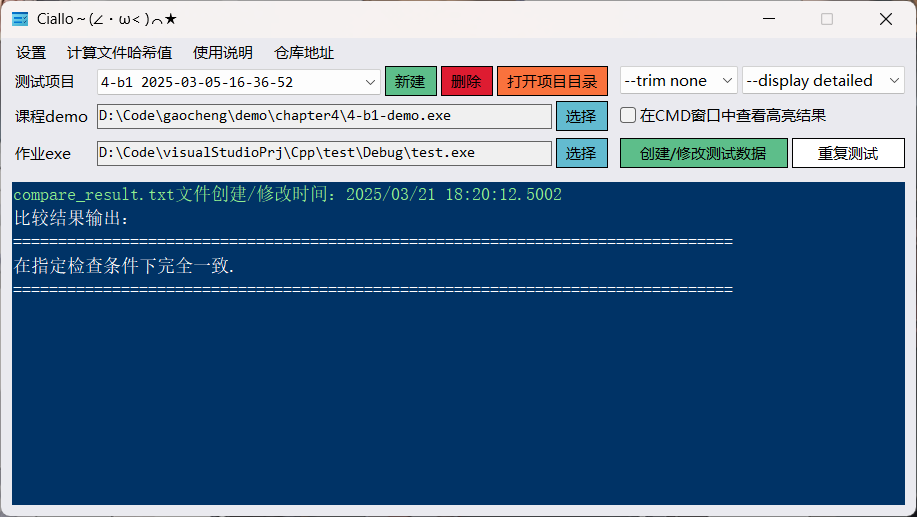
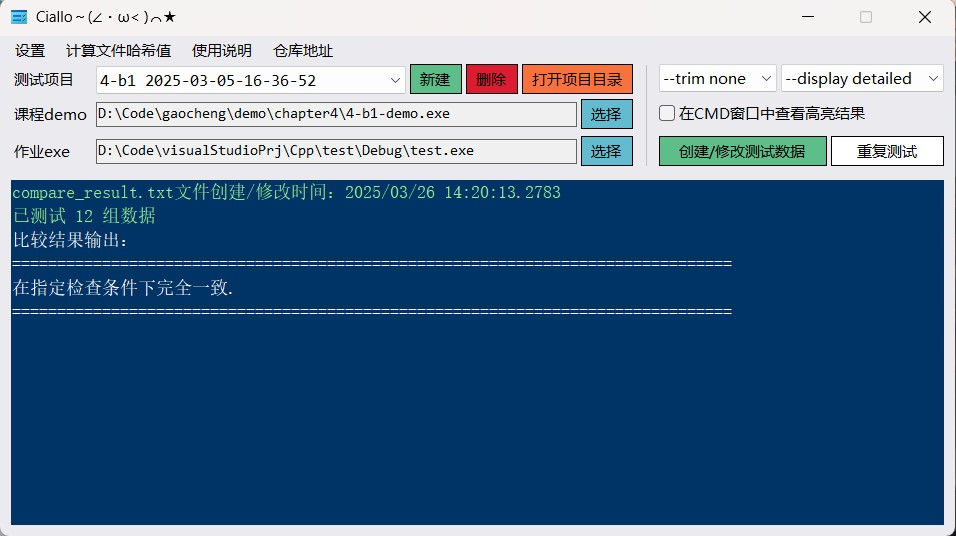
结果显示测试数据组数，新增一键复制键

Changed region(s): [[0.0, 0.0, 1.0, 1.0], [0.9466, 0.0, 1.0, 0.0619], [0.8855, 0.0, 0.916, 0.0619]]

diff --git a/gaocheng_debug/gaocheng_debug/MainForm.Designer.cs b/gaocheng_debug/gaocheng_debug/MainForm.Designer.cs
@@ -54,6 +54,7 @@
             this.btnOpenProjectDirectory = new System.Windows.Forms.Button();
             this.btnDeleteProject = new System.Windows.Forms.Button();
             this.chkIsInterfaceProgramPause = new System.Windows.Forms.CheckBox();
+            this.lblSeperator = new System.Windows.Forms.Label();
             this.mnsAdditionalFunctions.SuspendLayout();
             this.SuspendLayout();
             // 
@@ -62,14 +63,14 @@
             this.cboProjectSelector.BackColor = System.Drawing.SystemColors.Window;
             this.cboProjectSelector.DropDownStyle = System.Windows.Forms.ComboBoxStyle.DropDownList;
             this.cboProjectSelector.FlatStyle = System.Windows.Forms.FlatStyle.System;
-            this.cboProjectSelector.Font = new System.Drawing.Font("Consolas", 9F, System.Drawing.FontStyle.Regular, System.Drawing.GraphicsUnit.Point, ((byte)(0)));
+            this.cboProjectSelector.Font = new System.Drawing.Font("Consolas", 10.2F, System.Drawing.FontStyle.Regular, System.Drawing.GraphicsUnit.Point, ((byte)(0)));
             this.cboProjectSelector.FormattingEnabled = true;
             this.cboProjectSelector.Items.AddRange(new object[] {
             "blank"});
-            this.cboProjectSelector.Location = new System.Drawing.Point(96, 31);
+            this.cboProjectSelector.Location = new System.Drawing.Point(96, 30);
             this.cboProjectSelector.Margin = new System.Windows.Forms.Padding(2);
             this.cboProjectSelector.Name = "cboProjectSelector";
-            this.cboProjectSelector.Size = new System.Drawing.Size(284, 26);
+            this.cboProjectSelector.Size = new System.Drawing.Size(310, 28);
             this.cboProjectSelector.TabIndex = 0;
             this.cboProjectSelector.TabStop = false;
             this.cboProjectSelector.SelectedIndexChanged += new System.EventHandler(this.CboProjectSelectorSelectedIndexChanged);
@@ -97,35 +98,35 @@
             this.mnsAdditionalFunctions.Location = new System.Drawing.Point(0, 0);
             this.mnsAdditionalFunctions.Name = "mnsAdditionalFunctions";
             this.mnsAdditionalFunctions.Padding = new System.Windows.Forms.Padding(5, 2, 0, 2);
-            this.mnsAdditionalFunctions.Size = new System.Drawing.Size(915, 28);
+            this.mnsAdditionalFunctions.Size = new System.Drawing.Size(955, 30);
             this.mnsAdditionalFunctions.TabIndex = 2;
             this.mnsAdditionalFunctions.Text = "menuStrip1";
             // 
             // tsmiSettings
             // 
             this.tsmiSettings.Name = "tsmiSettings";
-            this.tsmiSettings.Size = new System.Drawing.Size(53, 24);
+            this.tsmiSettings.Size = new System.Drawing.Size(53, 26);
             this.tsmiSettings.Text = "设置";
             this.tsmiSettings.Click += new System.EventHandler(this.TsmiSettingsClick);
             // 
             // tsmiHashCalculator
             // 
             this.tsmiHashCalculator.Name = "tsmiHashCalculator";
-            this.tsmiHashCalculator.Size = new System.Drawing.Size(128, 24);
+            this.tsmiHashCalculator.Size = new System.Drawing.Size(128, 26);
             this.tsmiHashCalculator.Text = "计算文件哈希值";
             this.tsmiHashCalculator.Click += new System.EventHandler(this.TsmiHashCalculatorClick);
             // 
             // tsmiHelp
             // 
             this.tsmiHelp.Name = "tsmiHelp";
-            this.tsmiHelp.Size = new System.Drawing.Size(83, 24);
+            this.tsmiHelp.Size = new System.Drawing.Size(83, 26);
             this.tsmiHelp.Text = "使用说明";
             this.tsmiHelp.Click += new System.EventHandler(this.TsmiHelpClick);
             // 
             // tsmiRepositoryAddress
             // 
             this.tsmiRepositoryAddress.Name = "tsmiRepositoryAddress";
-            this.tsmiRepositoryAddress.Size = new System.Drawing.Size(83, 24);
+            this.tsmiRepositoryAddress.Size = new System.Drawing.Size(83, 26);
             this.tsmiRepositoryAddress.Text = "仓库地址";
             this.tsmiRepositoryAddress.Click += new System.EventHandler(this.TsmiRepositoryAddressClick);
             // 
@@ -133,7 +134,7 @@
             // 
             this.btnNewProject.BackColor = System.Drawing.Color.FromArgb(((int)(((byte)(93)))), ((int)(((byte)(190)))), ((int)(((byte)(138)))));
             this.btnNewProject.FlatStyle = System.Windows.Forms.FlatStyle.Flat;
-            this.btnNewProject.Location = new System.Drawing.Point(384, 28);
+            this.btnNewProject.Location = new System.Drawing.Point(410, 28);
             this.btnNewProject.Margin = new System.Windows.Forms.Padding(2);
             this.btnNewProject.Name = "btnNewProject";
             this.btnNewProject.Size = new System.Drawing.Size(52, 30);
@@ -151,7 +152,7 @@
             this.txtDemoExePath.Margin = new System.Windows.Forms.Padding(2);
             this.txtDemoExePath.Name = "txtDemoExePath";
             this.txtDemoExePath.ReadOnly = true;
-            this.txtDemoExePath.Size = new System.Drawing.Size(455, 25);
+            this.txtDemoExePath.Size = new System.Drawing.Size(481, 25);
             this.txtDemoExePath.TabIndex = 4;
             this.txtDemoExePath.TabStop = false;
             this.txtDemoExePath.TextChanged += new System.EventHandler(this.TxtDemoExePathOrTxtYourExePathTextChanged);
@@ -171,7 +172,7 @@
             this.btnBrowseDemoExe.BackColor = System.Drawing.Color.FromArgb(((int)(((byte)(99)))), ((int)(((byte)(187)))), ((int)(((byte)(208)))));
             this.btnBrowseDemoExe.Enabled = false;
             this.btnBrowseDemoExe.FlatStyle = System.Windows.Forms.FlatStyle.Flat;
-            this.btnBrowseDemoExe.Location = new System.Drawing.Point(555, 63);
+            this.btnBrowseDemoExe.Location = new System.Drawing.Point(581, 63);
             this.btnBrowseDemoExe.Margin = new System.Windows.Forms.Padding(2);
             this.btnBrowseDemoExe.Name = "btnBrowseDemoExe";
             this.btnBrowseDemoExe.Size = new System.Drawing.Size(52, 30);
@@ -186,7 +187,7 @@
             this.btnBrowseYourExe.BackColor = System.Drawing.Color.FromArgb(((int)(((byte)(99)))), ((int)(((byte)(187)))), ((int)(((byte)(208)))));
             this.btnBrowseYourExe.Enabled = false;
             this.btnBrowseYourExe.FlatStyle = System.Windows.Forms.FlatStyle.Flat;
-            this.btnBrowseYourExe.Location = new System.Drawing.Point(555, 100);
+            this.btnBrowseYourExe.Location = new System.Drawing.Point(581, 100);
             this.btnBrowseYourExe.Margin = new System.Windows.Forms.Padding(2);
             this.btnBrowseYourExe.Name = "btnBrowseYourExe";
             this.btnBrowseYourExe.Size = new System.Drawing.Size(52, 30);
@@ -204,7 +205,7 @@
             this.txtYourExePath.Margin = new System.Windows.Forms.Padding(2);
             this.txtYourExePath.Name = "txtYourExePath";
             this.txtYourExePath.ReadOnly = true;
-            this.txtYourExePath.Size = new System.Drawing.Size(455, 25);
+            this.txtYourExePath.Size = new System.Drawing.Size(481, 25);
             this.txtYourExePath.TabIndex = 8;
             this.txtYourExePath.TabStop = false;
             this.txtYourExePath.TextChanged += new System.EventHandler(this.TxtDemoExePathOrTxtYourExePathTextChanged);
@@ -224,7 +225,7 @@
             this.btnRetest.BackColor = System.Drawing.Color.FromArgb(((int)(((byte)(255)))), ((int)(((byte)(255)))), ((int)(((byte)(255)))));
             this.btnRetest.Enabled = false;
             this.btnRetest.FlatStyle = System.Windows.Forms.FlatStyle.Flat;
-            this.btnRetest.Location = new System.Drawing.Point(791, 100);
+            this.btnRetest.Location = new System.Drawing.Point(831, 100);
             this.btnRetest.Margin = new System.Windows.Forms.Padding(2);
             this.btnRetest.Name = "btnRetest";
             this.btnRetest.Size = new System.Drawing.Size(113, 30);
@@ -244,7 +245,7 @@
             "--display none",
             "--display normal",
             "--display detailed"});
-            this.cboDisplaySelector.Location = new System.Drawing.Point(741, 28);
+            this.cboDisplaySelector.Location = new System.Drawing.Point(781, 28);
             this.cboDisplaySelector.Margin = new System.Windows.Forms.Padding(2);
             this.cboDisplaySelector.Name = "cboDisplaySelector";
             this.cboDisplaySelector.Size = new System.Drawing.Size(163, 28);
@@ -263,7 +264,7 @@
             "--trim right",
             "--trim left",
             "--trim all"});
-            this.cboTrimSelector.Location = new System.Drawing.Point(619, 28);
+            this.cboTrimSelector.Location = new System.Drawing.Point(659, 28);
             this.cboTrimSelector.Margin = new System.Windows.Forms.Padding(2);
             this.cboTrimSelector.Name = "cboTrimSelector";
             this.cboTrimSelector.Size = new System.Drawing.Size(118, 28);
@@ -276,7 +277,7 @@
             this.btnNewOrEditTestData.BackColor = System.Drawing.Color.FromArgb(((int)(((byte)(93)))), ((int)(((byte)(190)))), ((int)(((byte)(138)))));
             this.btnNewOrEditTestData.Enabled = false;
             this.btnNewOrEditTestData.FlatStyle = System.Windows.Forms.FlatStyle.Flat;
-            this.btnNewOrEditTestData.Location = new System.Drawing.Point(619, 100);
+            this.btnNewOrEditTestData.Location = new System.Drawing.Point(659, 100);
             this.btnNewOrEditTestData.Margin = new System.Windows.Forms.Padding(2);
             this.btnNewOrEditTestData.Name = "btnNewOrEditTestData";
             this.btnNewOrEditTestData.Size = new System.Drawing.Size(168, 30);
@@ -296,7 +297,7 @@
             this.rtxResultViewer.Margin = new System.Windows.Forms.Padding(2);
             this.rtxResultViewer.Name = "rtxResultViewer";
             this.rtxResultViewer.ReadOnly = true;
-            this.rtxResultViewer.Size = new System.Drawing.Size(893, 323);
+            this.rtxResultViewer.Size = new System.Drawing.Size(933, 345);
             this.rtxResultViewer.TabIndex = 14;
             this.rtxResultViewer.TabStop = false;
             this.rtxResultViewer.Text = "";
@@ -317,7 +318,7 @@
             this.btnOpenProjectDirectory.BackColor = System.Drawing.Color.FromArgb(((int)(((byte)(249)))), ((int)(((byte)(114)))), ((int)(((byte)(61)))));
             this.btnOpenProjectDirectory.Enabled = false;
             this.btnOpenProjectDirectory.FlatStyle = System.Windows.Forms.FlatStyle.Flat;
-            this.btnOpenProjectDirectory.Location = new System.Drawing.Point(496, 28);
+            this.btnOpenProjectDirectory.Location = new System.Drawing.Point(522, 28);
             this.btnOpenProjectDirectory.Margin = new System.Windows.Forms.Padding(2);
             this.btnOpenProjectDirectory.Name = "btnOpenProjectDirectory";
             this.btnOpenProjectDirectory.Size = new System.Drawing.Size(111, 30);
@@ -332,7 +333,7 @@
             this.btnDeleteProject.BackColor = System.Drawing.Color.FromArgb(((int)(((byte)(222)))), ((int)(((byte)(28)))), ((int)(((byte)(49)))));
             this.btnDeleteProject.Enabled = false;
             this.btnDeleteProject.FlatStyle = System.Windows.Forms.FlatStyle.Flat;
-            this.btnDeleteProject.Location = new System.Drawing.Point(440, 28);
+            this.btnDeleteProject.Location = new System.Drawing.Point(466, 28);
             this.btnDeleteProject.Margin = new System.Windows.Forms.Padding(2);
             this.btnDeleteProject.Name = "btnDeleteProject";
             this.btnDeleteProject.Size = new System.Drawing.Size(52, 30);
@@ -346,19 +347,29 @@
             // 
             this.chkIsInterfaceProgramPause.AutoSize = true;
             this.chkIsInterfaceProgramPause.FlatStyle = System.Windows.Forms.FlatStyle.System;
-            this.chkIsInterfaceProgramPause.Location = new System.Drawing.Point(619, 65);
+            this.chkIsInterfaceProgramPause.Location = new System.Drawing.Point(659, 65);
             this.chkIsInterfaceProgramPause.Name = "chkIsInterfaceProgramPause";
             this.chkIsInterfaceProgramPause.Size = new System.Drawing.Size(226, 25);
             this.chkIsInterfaceProgramPause.TabIndex = 17;
             this.chkIsInterfaceProgramPause.Text = "在CMD窗口中查看高亮结果";
             this.chkIsInterfaceProgramPause.UseVisualStyleBackColor = true;
             // 
+            // lblSeperator
+            // 
+            this.lblSeperator.BackColor = System.Drawing.Color.Silver;
+            this.lblSeperator.ForeColor = System.Drawing.Color.Black;
+            this.lblSeperator.Location = new System.Drawing.Point(646, 29);
+            this.lblSeperator.Name = "lblSeperator";
+            this.lblSeperator.Size = new System.Drawing.Size(1, 101);
+            this.lblSeperator.TabIndex = 18;
+            // 
             // MainForm
             // 
             this.AutoScaleDimensions = new System.Drawing.SizeF(120F, 120F);
             this.AutoScaleMode = System.Windows.Forms.AutoScaleMode.Dpi;
             this.BackColor = System.Drawing.Color.FromArgb(((int)(((byte)(234)))), ((int)(((byte)(234)))), ((int)(((byte)(239)))));
-            this.ClientSize = new System.Drawing.Size(915, 478);
+            this.ClientSize = new System.Drawing.Size(955, 500);
+            this.Controls.Add(this.lblSeperator);
             this.Controls.Add(this.chkIsInterfaceProgramPause);
             this.Controls.Add(this.cboDisplaySelector);
             this.Controls.Add(this.btnDeleteProject);
@@ -420,6 +431,7 @@
         private System.Windows.Forms.ToolStripMenuItem tsmiHashCalculator;
         private System.Windows.Forms.CheckBox chkIsInterfaceProgramPause;
         private System.Windows.Forms.ToolStripMenuItem tsmiRepositoryAddress;
+        private System.Windows.Forms.Label lblSeperator;
     }
 }
 

diff --git a/gaocheng_debug/gaocheng_debug/NewOrEditTestDataForm.Designer.cs b/gaocheng_debug/gaocheng_debug/NewOrEditTestDataForm.Designer.cs
@@ -33,9 +33,10 @@
             this.lblDataInputTip = new System.Windows.Forms.Label();
             this.btnGenerateOrModifyThenTest = new System.Windows.Forms.Button();
             this.btnSave = new System.Windows.Forms.Button();
-            this.lblSaveTip = new System.Windows.Forms.Label();
+            this.lblTip = new System.Windows.Forms.Label();
             this.tmrSaveTipController = new System.Windows.Forms.Timer(this.components);
             this.rtxTestDataEditor = new System.Windows.Forms.RichTextBox();
+            this.btnCopy = new System.Windows.Forms.Button();
             this.SuspendLayout();
             // 
             // lblDataInputTip
@@ -66,7 +67,7 @@
             // 
             this.btnSave.BackColor = System.Drawing.Color.FromArgb(((int)(((byte)(249)))), ((int)(((byte)(114)))), ((int)(((byte)(61)))));
             this.btnSave.FlatStyle = System.Windows.Forms.FlatStyle.Flat;
-            this.btnSave.Location = new System.Drawing.Point(342, 10);
+            this.btnSave.Location = new System.Drawing.Point(348, 10);
             this.btnSave.Name = "btnSave";
             this.btnSave.Size = new System.Drawing.Size(115, 33);
             this.btnSave.TabIndex = 3;
@@ -74,17 +75,17 @@
             this.btnSave.UseVisualStyleBackColor = false;
             this.btnSave.Click += new System.EventHandler(this.BtnSaveClick);
             // 
-            // lblSaveTip
+            // lblTip
             // 
-            this.lblSaveTip.AutoSize = true;
-            this.lblSaveTip.Font = new System.Drawing.Font("等线", 10.8F, System.Drawing.FontStyle.Bold, System.Drawing.GraphicsUnit.Point, ((byte)(134)));
-            this.lblSaveTip.ForeColor = System.Drawing.Color.DarkCyan;
-            this.lblSaveTip.Location = new System.Drawing.Point(271, 17);
-            this.lblSaveTip.Name = "lblSaveTip";
-            this.lblSaveTip.Size = new System.Drawing.Size(65, 19);
-            this.lblSaveTip.TabIndex = 4;
-            this.lblSaveTip.Text = "SAVED";
-            this.lblSaveTip.Visible = false;
+            this.lblTip.AutoSize = true;
+            this.lblTip.Font = new System.Drawing.Font("微软雅黑", 10.8F, System.Drawing.FontStyle.Bold, System.Drawing.GraphicsUnit.Point, ((byte)(134)));
+            this.lblTip.ForeColor = System.Drawing.Color.DarkCyan;
+            this.lblTip.Location = new System.Drawing.Point(183, 15);
+            this.lblTip.Name = "lblTip";
+            this.lblTip.Size = new System.Drawing.Size(66, 25);
+            this.lblTip.TabIndex = 4;
+            this.lblTip.Text = "已保存";
+            this.lblTip.Visible = false;
             // 
             // tmrSaveTipController
             // 
@@ -102,14 +103,27 @@
             this.rtxTestDataEditor.Text = "";
             this.rtxTestDataEditor.KeyDown += new System.Windows.Forms.KeyEventHandler(this.RtxTestDataEditorKeyDown);
             // 
+            // btnCopy
+            // 
+            this.btnCopy.BackColor = System.Drawing.Color.White;
+            this.btnCopy.FlatStyle = System.Windows.Forms.FlatStyle.Flat;
+            this.btnCopy.Location = new System.Drawing.Point(255, 10);
+            this.btnCopy.Name = "btnCopy";
+            this.btnCopy.Size = new System.Drawing.Size(87, 33);
+            this.btnCopy.TabIndex = 6;
+            this.btnCopy.Text = "一键复制";
+            this.btnCopy.UseVisualStyleBackColor = false;
+            this.btnCopy.Click += new System.EventHandler(this.BtnCopyClick);
+            // 
             // NewOrEditTestDataForm
             // 
             this.AutoScaleDimensions = new System.Drawing.SizeF(120F, 120F);
             this.AutoScaleMode = System.Windows.Forms.AutoScaleMode.Dpi;
             this.BackColor = System.Drawing.Color.FromArgb(((int)(((byte)(234)))), ((int)(((byte)(234)))), ((int)(((byte)(239)))));
             this.ClientSize = new System.Drawing.Size(650, 646);
+            this.Controls.Add(this.btnCopy);
             this.Controls.Add(this.rtxTestDataEditor);
-            this.Controls.Add(this.lblSaveTip);
+            this.Controls.Add(this.lblTip);
             this.Controls.Add(this.btnSave);
             this.Controls.Add(this.btnGenerateOrModifyThenTest);
             this.Controls.Add(this.lblDataInputTip);
@@ -131,8 +145,9 @@
         private System.Windows.Forms.Label lblDataInputTip;
         private System.Windows.Forms.Button btnGenerateOrModifyThenTest;
         private System.Windows.Forms.Button btnSave;
-        private System.Windows.Forms.Label lblSaveTip;
+        private System.Windows.Forms.Label lblTip;
         private System.Windows.Forms.Timer tmrSaveTipController;
         private System.Windows.Forms.RichTextBox rtxTestDataEditor;
+        private System.Windows.Forms.Button btnCopy;
     }
 }

diff --git a/gaocheng_debug/gaocheng_debug/NewOrEditTestDataForm.cs b/gaocheng_debug/gaocheng_debug/NewOrEditTestDataForm.cs
@@ -14,6 +14,9 @@ namespace gaocheng_debug
         private const char DataIDFlag   = '[';
         private const char LF           = '\n';
 
+        private const string SaveTip = "已保存";
+        private const string CopyTip = "已复制";
+
         private static readonly string DataGroupTruncationWarning = $"数据组数大于{MaxDataGroupNum}，将舍弃第{MaxDataGroupNum + 1}组及之后的数据";
 
         // 私有只读成员
@@ -60,7 +63,7 @@ namespace gaocheng_debug
             if (e.Control && e.KeyCode == Keys.S)
             {
                 e.SuppressKeyPress = true;
-                WriteTestDataWithTip();
+                WriteTestDataWithTip(SaveTip);
             }
         }
 
@@ -130,12 +133,20 @@ namespace gaocheng_debug
             Master.DoWhileEdited(cnt);
         }
 
+        private void BtnCopyClick(object sender, EventArgs e)
+        {
+            Clipboard.SetText(rtxTestDataEditor.Text);
+            lblTip.Text = CopyTip;
+            lblTip.Visible = true;
+            tmrSaveTipController.Enabled = true;
+        }
+
         private void BtnSaveClick(object sender, EventArgs e) =>
-            WriteTestDataWithTip();
+            WriteTestDataWithTip(SaveTip);
 
         private void TmrSaveTipControllerTick(object sender, EventArgs e)
         {
-            lblSaveTip.Visible = false;
+            lblTip.Visible = false;
             tmrSaveTipController.Enabled = false;
         }
 
@@ -143,10 +154,11 @@ namespace gaocheng_debug
         private void WriteTestData(in string content) =>
             MutSync.WriteAllText(Master.AbsoluteTestDataPath, content, Global.GB18030);
 
-        private void WriteTestDataWithTip()
+        private void WriteTestDataWithTip(in string tip)
         {
             WriteTestData(rtxTestDataEditor.Text.Replace("\n", Global.NewLine));
-            lblSaveTip.Visible = true;
+            lblTip.Text = tip;
+            lblTip.Visible = true;
             tmrSaveTipController.Enabled = true;
         }
 

diff --git a/gaocheng_debug/gaocheng_debug/MainFormToolFuncs.cs b/gaocheng_debug/gaocheng_debug/MainFormToolFuncs.cs
@@ -210,9 +210,11 @@ namespace gaocheng_debug
 
         private void PrintResultInfo(in string resultFile)
         {
-            string time_info = $"{Global.CompareResult}文件创建/修改时间：{File.GetLastWriteTime(resultFile).ToString(Global.OperationTimeFormatStr)}";
-            rtxResultViewer.Text = $"{time_info}{Global.NewLine}{MutSync.ReadAllText(resultFile, Global.GB18030)}";
-            rtxResultViewer.Select(0, time_info.Length);
+            string info =   $"{Global.CompareResult}文件创建/修改时间："
+                          + $"{File.GetLastWriteTime(resultFile).ToString(Global.OperationTimeFormatStr)}{Global.NewLine}"
+                          + $"已测试 {dataGroupNum} 组数据";
+            rtxResultViewer.Text = $"{info}{Global.NewLine}{MutSync.ReadAllText(resultFile, Global.GB18030)}";
+            rtxResultViewer.Select(0, info.Length);
             rtxResultViewer.SelectionColor = TimeInfoColor;
             rtxResultViewer.DeselectAll();
         }

diff --git a/gaocheng_debug/gaocheng_debug/Properties/AssemblyInfo.cs b/gaocheng_debug/gaocheng_debug/Properties/AssemblyInfo.cs
@@ -33,6 +33,6 @@ using System.Runtime.InteropServices;
 //可以指定所有这些值，也可以使用“生成号”和“修订号”的默认值
 //通过使用 "*"，如下所示:
 // [assembly: AssemblyVersion("1.0.*")]
-[assembly: AssemblyVersion("2.1.0")]
-[assembly: AssemblyFileVersion("2.1.0")]
+[assembly: AssemblyVersion("2.1.1")]
+[assembly: AssemblyFileVersion("2.1.1")]
 [assembly: NeutralResourcesLanguage("zh-CN")]

diff --git a/README.md b/README.md
@@ -1,5 +1,5 @@
-# 简介（适用于2.1.0及之后）
-某大学简称为“高程”的课程使用  
+# 简介（适用于2.1.1及之后）
+同济大学 高级语言程序设计 测试程序  
 完成测试后在本应用建立的目录下一键生成（字符串升序排列）:
 * 项目信息记录文件（_project.gaocheng）
 * 编号后的测试数据（_test_data.txt）
@@ -19,5 +19,5 @@
 首次编译后直接运行可能报错，需要将resource文件夹中的的rsc文件夹以及README.html文件复制到生成exe同级目录下。若还无法正常运行，则检查MutSync.cs文件代码中检查的文件存在性、检查的文件大小是否超过2MB，以及MD5是否正确（尤其是gaocheng_debug.exe.config）
 
 <blockquote>（“你一定是坚坚的学生吧”<br>
-<a href="https://www.zhihu.com/question/554569818/answer/2683685957" target="_blank">——YouKnowWho from 某蓝色高端论坛</a>
+<a href="https://www.zhihu.com/question/554569818/answer/2683673437" target="_blank">——夜殇 from 某蓝色高端论坛</a>
 </blockquote>
